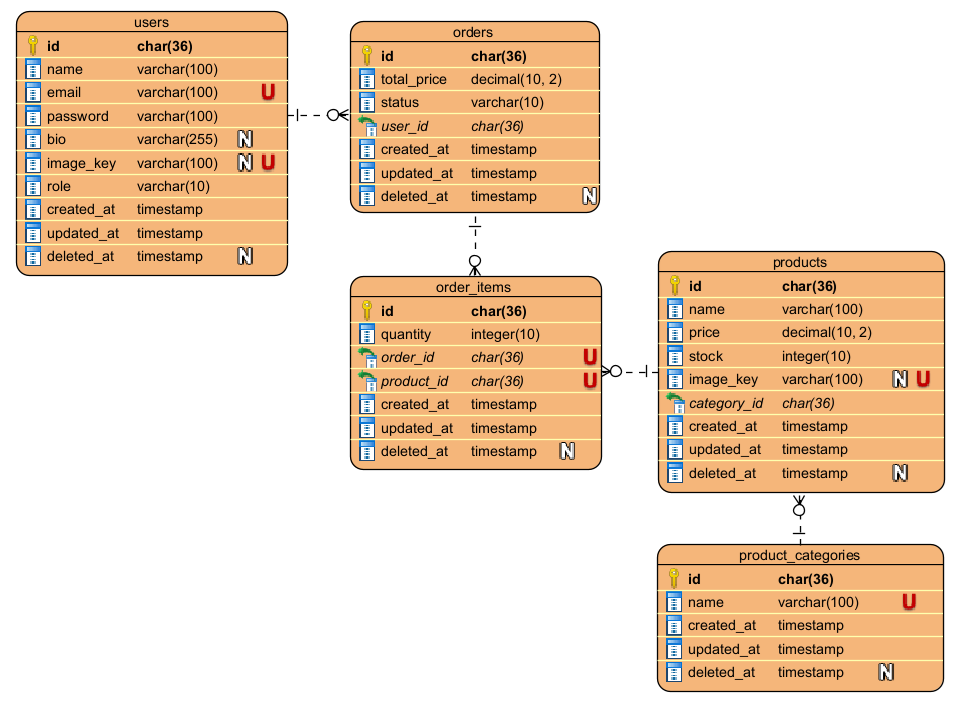
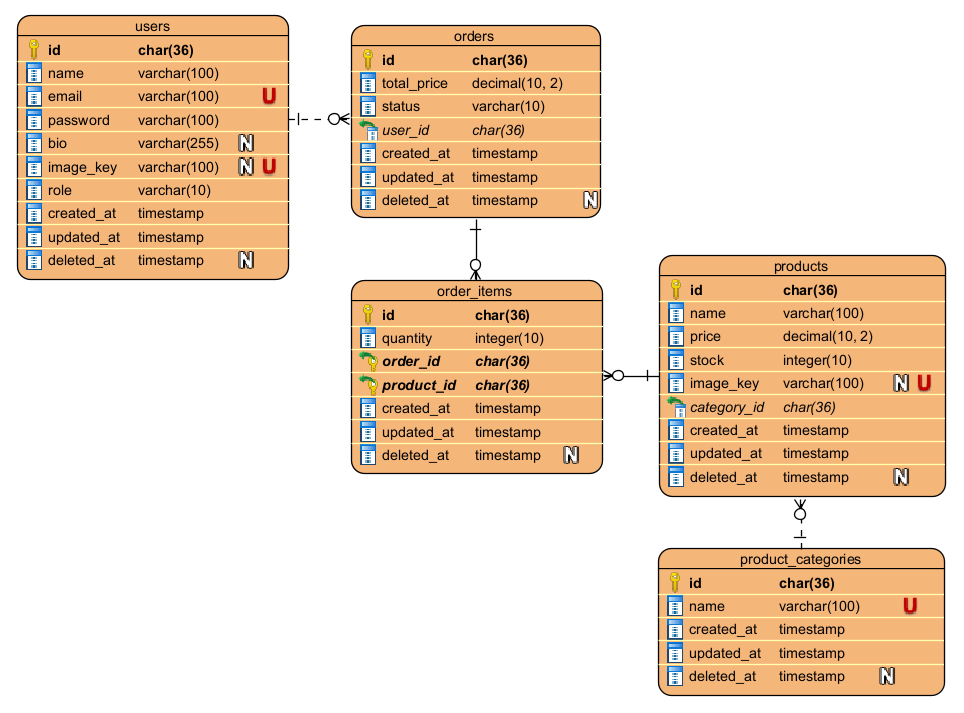
feat: update unique constraints and use mysql for testing environment not h2

Changed region(s): [[0.0, 0.0, 0.9959, 0.9874]]

diff --git a/src/test/java/com/adrian/minishop/controller/AuthControllerTest.java b/src/test/java/com/adrian/minishop/controller/AuthControllerTest.java
@@ -1,9 +1,11 @@
 package com.adrian.minishop.controller;
 
 import com.adrian.minishop.TestHelper;
+import com.adrian.minishop.dto.request.LoginRequest;
 import com.adrian.minishop.dto.request.RegisterRequest;
 import com.adrian.minishop.dto.response.UserResponse;
 import com.adrian.minishop.dto.response.WebResponse;
+import com.adrian.minishop.entity.User;
 import com.adrian.minishop.enums.Role;
 import com.fasterxml.jackson.core.type.TypeReference;
 import com.fasterxml.jackson.databind.ObjectMapper;
@@ -45,13 +47,73 @@ public class AuthControllerTest {
     }
 
     @Test
-    void shouldRegisterCreated_whenRequestIsValid() throws Exception {
+    void shouldRegisterBadRequest_whenRequestInvalid() throws Exception {
+        String[] csrfToken = testHelper.getCsrfToken();
+
+        RegisterRequest request = RegisterRequest.builder()
+                .name("")
+                .email("")
+                .password("")
+                .build();
+
+        mockMvc.perform(
+                post("/api/v1/auth/register")
+                        .header("X-XSRF-TOKEN", csrfToken[0])
+                        .cookie(new Cookie("XSRF-TOKEN", csrfToken[1]))
+                        .accept(MediaType.APPLICATION_JSON_VALUE)
+                        .contentType(MediaType.APPLICATION_JSON_VALUE)
+                        .content(objectMapper.writeValueAsString(request))
+        ).andExpectAll(
+                status().isBadRequest()
+        ).andDo(result -> {
+            WebResponse<UserResponse> response = objectMapper.readValue(result.getResponse().getContentAsString(), new TypeReference<>() {
+            });
+
+            assertNull(response.getData());
+
+            assertNotNull(response.getErrors());
+        });
+    }
+
+    @Test
+    void shouldRegisterBadRequest_whenEmailExists() throws Exception {
+        testHelper.createUser();
+
+        String[] csrfToken = testHelper.getCsrfToken();
+
+        RegisterRequest request = RegisterRequest.builder()
+                .name("Adrian Yu")
+                .email("adrian@gmail.com")
+                .password("Ayu123456!")
+                .build();
+
+        mockMvc.perform(
+                post("/api/v1/auth/register")
+                        .header("X-XSRF-TOKEN", csrfToken[0])
+                        .cookie(new Cookie("XSRF-TOKEN", csrfToken[1]))
+                        .accept(MediaType.APPLICATION_JSON_VALUE)
+                        .contentType(MediaType.APPLICATION_JSON_VALUE)
+                        .content(objectMapper.writeValueAsString(request))
+        ).andExpectAll(
+                status().isBadRequest()
+        ).andDo(result -> {
+            WebResponse<UserResponse> response = objectMapper.readValue(result.getResponse().getContentAsString(), new TypeReference<>() {
+            });
+
+            assertNull(response.getData());
+
+            assertNotNull(response.getErrors());
+        });
+    }
+
+    @Test
+    void shouldRegisterCreated_whenRequestValid() throws Exception {
         String[] csrfToken = testHelper.getCsrfToken();
 
         RegisterRequest request = RegisterRequest.builder()
                 .name("Adrian Yu")
                 .email("adrian.yu@gmail.com")
-                .password("AdrianYu1!")
+                .password("Ayu123456!")
                 .build();
 
         mockMvc.perform(
@@ -67,6 +129,8 @@ public class AuthControllerTest {
             WebResponse<UserResponse> response = objectMapper.readValue(result.getResponse().getContentAsString(), new TypeReference<>() {
             });
 
+            assertNull(response.getErrors());
+
             assertNotNull(response.getData().getId());
             assertEquals(request.getName(), response.getData().getName());
             assertEquals(request.getEmail(), response.getData().getEmail());
@@ -76,8 +140,132 @@ public class AuthControllerTest {
         });
     }
 
-    void shouldRegisterBadRequest_when(){
+    @Test
+    void shouldLoginBadRequest_whenRequestInvalid() throws Exception {
+        String[] csrfToken = testHelper.getCsrfToken();
 
+        LoginRequest request = LoginRequest.builder()
+                .email("")
+                .password("")
+                .build();
+
+        mockMvc.perform(
+                post("/api/v1/auth/login")
+                        .header("X-XSRF-TOKEN", csrfToken[0])
+                        .cookie(new Cookie("XSRF-TOKEN", csrfToken[1]))
+                        .accept(MediaType.APPLICATION_JSON_VALUE)
+                        .contentType(MediaType.APPLICATION_JSON_VALUE)
+                        .content(objectMapper.writeValueAsString(request))
+        ).andExpectAll(
+                status().isBadRequest()
+        ).andDo(result -> {
+            WebResponse<UserResponse> response = objectMapper.readValue(result.getResponse().getContentAsString(), new TypeReference<>() {
+            });
+
+            assertNull(response.getData());
+
+            assertNotNull(response.getErrors());
+        });
+    }
+
+    @Test
+    void shouldLoginUnauthorized_whenEmailNotExists() throws Exception {
+        testHelper.createUser();
+
+        String[] csrfToken = testHelper.getCsrfToken();
+
+        LoginRequest request = LoginRequest.builder()
+                .email("adrian123@gmail.com")
+                .password("Ayu123456!")
+                .build();
+
+        mockMvc.perform(
+                post("/api/v1/auth/login")
+                        .header("X-XSRF-TOKEN", csrfToken[0])
+                        .cookie(new Cookie("XSRF-TOKEN", csrfToken[1]))
+                        .accept(MediaType.APPLICATION_JSON_VALUE)
+                        .contentType(MediaType.APPLICATION_JSON_VALUE)
+                        .content(objectMapper.writeValueAsString(request))
+        ).andExpectAll(
+                status().isUnauthorized()
+        ).andDo(result -> {
+            WebResponse<UserResponse> response = objectMapper.readValue(result.getResponse().getContentAsString(), new TypeReference<>() {
+            });
+
+            assertNull(response.getData());
+
+            assertNotNull(response.getErrors());
+        });
+    }
+
+    @Test
+    void shouldLoginUnauthorized_whenPasswordWrong() throws Exception {
+        testHelper.createUser();
+
+        String[] csrfToken = testHelper.getCsrfToken();
+
+        LoginRequest request = LoginRequest.builder()
+                .email("adrian@gmail.com")
+                .password("Ayu123456789!")
+                .build();
+
+        mockMvc.perform(
+                post("/api/v1/auth/login")
+                        .header("X-XSRF-TOKEN", csrfToken[0])
+                        .cookie(new Cookie("XSRF-TOKEN", csrfToken[1]))
+                        .accept(MediaType.APPLICATION_JSON_VALUE)
+                        .contentType(MediaType.APPLICATION_JSON_VALUE)
+                        .content(objectMapper.writeValueAsString(request))
+        ).andExpectAll(
+                status().isUnauthorized()
+        ).andDo(result -> {
+            WebResponse<UserResponse> response = objectMapper.readValue(result.getResponse().getContentAsString(), new TypeReference<>() {
+            });
+
+            assertNull(response.getData());
+
+            assertNotNull(response.getErrors());
+        });
+    }
+
+    @Test
+    void shouldLoginSuccess_whenRequestValid() throws Exception {
+        User user = testHelper.createUser();
+
+        String[] csrfToken = testHelper.getCsrfToken();
+
+        LoginRequest request = LoginRequest.builder()
+                .email("adrian@gmail.com")
+                .password("Ayu123456!")
+                .build();
+
+        mockMvc.perform(
+                post("/api/v1/auth/login")
+                        .header("X-XSRF-TOKEN", csrfToken[0])
+                        .cookie(new Cookie("XSRF-TOKEN", csrfToken[1]))
+                        .accept(MediaType.APPLICATION_JSON_VALUE)
+                        .contentType(MediaType.APPLICATION_JSON_VALUE)
+                        .content(objectMapper.writeValueAsString(request))
+        ).andExpectAll(
+                status().isOk()
+        ).andDo(result -> {
+            WebResponse<UserResponse> response = objectMapper.readValue(result.getResponse().getContentAsString(), new TypeReference<>() {
+            });
+
+            assertNull(response.getErrors());
+
+            assertNotNull(response.getData().getId());
+            assertEquals(user.getName(), response.getData().getName());
+            assertEquals(user.getEmail(), response.getData().getEmail());
+            assertNull(response.getData().getBio());
+            assertNull(response.getData().getImageUrl());
+            assertEquals(Role.USER, response.getData().getRole());
+
+            String setCookie = result.getResponse().getHeader("Set-Cookie");
+            assertNotNull(setCookie);
+            assertTrue(setCookie.contains("token="));
+            assertFalse(setCookie.contains("token=;"));
+        });
     }
 
 }

diff --git a/src/test/java/com/adrian/minishop/TestHelper.java b/src/test/java/com/adrian/minishop/TestHelper.java
@@ -1,15 +1,20 @@
 package com.adrian.minishop;
 
 import com.adrian.minishop.dto.response.CsrfResponse;
-import com.adrian.minishop.dto.response.UserResponse;
 import com.adrian.minishop.dto.response.WebResponse;
+import com.adrian.minishop.entity.User;
+import com.adrian.minishop.enums.Role;
 import com.adrian.minishop.repository.UserRepository;
 import com.fasterxml.jackson.core.type.TypeReference;
 import com.fasterxml.jackson.databind.ObjectMapper;
 import lombok.RequiredArgsConstructor;
 import org.springframework.http.MediaType;
+import org.springframework.security.crypto.password.PasswordEncoder;
 import org.springframework.stereotype.Component;
 import org.springframework.test.web.servlet.MockMvc;
+
+import java.util.Random;
+import java.util.UUID;
 
 import static org.junit.jupiter.api.Assertions.*;
 import static org.springframework.test.web.servlet.MockMvcBuilder.*;
@@ -26,6 +31,8 @@ public class TestHelper {
     private final ObjectMapper objectMapper;
 
     private final UserRepository userRepository;
+
+    private final PasswordEncoder passwordEncoder;
 
     public String[] getCsrfToken() throws Exception {
         var result = mockMvc.perform(
@@ -48,6 +55,21 @@ public class TestHelper {
 
     public void deleteAllUser() {
         userRepository.deleteAll();
+    }
+
+    public User createUser() {
+        User user = new User();
+        user.setId(UUID.randomUUID().toString());
+        user.setName("Adrian Yu");
+        user.setEmail("adrian@gmail.com");
+        user.setPassword(passwordEncoder.encode("Ayu123456!"));
+        user.setBio(null);
+        user.setImageKey(null);
+        user.setRole(Role.USER);
+
+        userRepository.save(user);
+
+        return user;
     }
 
 }

diff --git a/src/main/java/com/adrian/minishop/entity/User.java b/src/main/java/com/adrian/minishop/entity/User.java
@@ -37,7 +37,7 @@ public class User extends BaseEntity implements UserDetails {
             name = "email",
             length = 100,
             nullable = false,
-            unique = true,
+            unique = false,
             updatable = true
     )
     private String email;
@@ -64,7 +64,7 @@ public class User extends BaseEntity implements UserDetails {
             name = "image_key",
             length = 100,
             nullable = true,
-            unique = true,
+            unique = false,
             updatable = true
     )
     private String imageKey;

diff --git a/src/main/java/com/adrian/minishop/entity/Product.java b/src/main/java/com/adrian/minishop/entity/Product.java
@@ -50,7 +50,7 @@ public class Product extends BaseEntity {
             name = "image_key",
             length = 100,
             nullable = true,
-            unique = true,
+            unique = false,
             updatable = true
     )
     private String imageKey;
